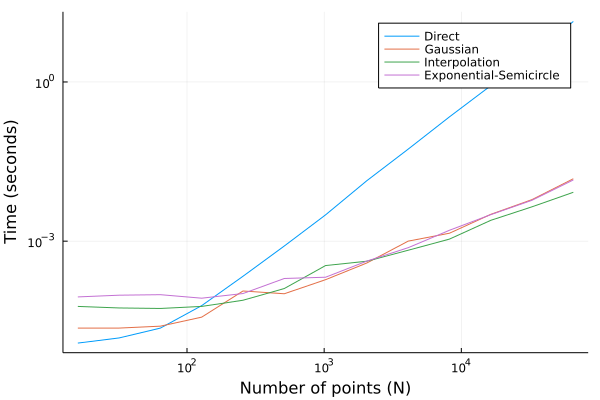
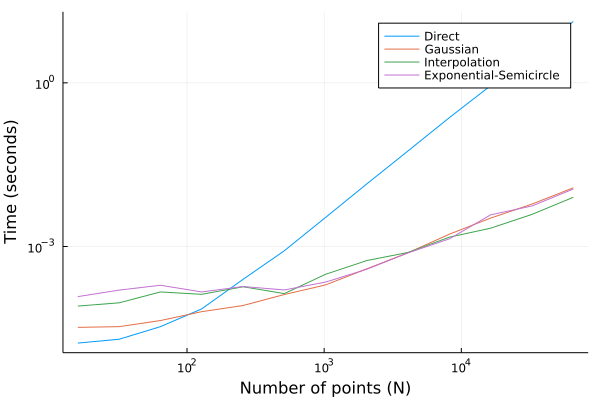
Intro, numerical examples, conclusion

diff --git a/latex/presentation/presentation.tex b/latex/presentation/presentation.tex
@@ -28,7 +28,10 @@
 
 \pdfsuppresswarningpagegroup=1
 
-\title{Test}
+\title{
+  A Variety of Approaches to \\
+  the Nonuniform Fast Fourier Transform
+}
 \author{Kosuke Sugita and Connor Robertson}
 \date{December 17, 2021}
 
@@ -41,7 +44,89 @@
 \section{Introduction}
 %%%%%%%%%%%%%%%%%%%%%%%%%%%%%%%%%%%%%%%%%%%%%%%%%%%%%%%%%%%%%%%%%%%%%%%%%%%%%%%
 \begin{frame}
-    \sectionpage
+    \frametitle{Introduction}
+    \textbf{Applications for NUFFT:}
+    \begin{itemize}
+        \item MRI Imaging - magnetic field reads frequency domain at nonuniform points
+        \item Numerical solutions to PDEs - consider radial points or Chebyshev points to better resolve domain
+        \item Coarse graining particles - Nonuniform distribution of discrete items to continuous field
+    \end{itemize}
+
+    \vfill
+
+    Nonuniform samples: $(x_n, f(x_n))$:
+    \begin{align*}
+        \hat{f}(k) = \sum_{n=0}^{N-1} f(x_n) e^{-i x_n k} \approx \int_{-\infty}^{\infty} f(x) e^{-i x k}dx
+    ,\end{align*}
+    *\textit{Order $O(N^{2})$}
 \end{frame}
 
+\begin{frame}
+  \frametitle{Concept}
+  \textbf{Key idea:}
+  \begin{enumerate}
+      \item Need uniform points for FFT symmetry
+      \item Use nonuniform points to cheaply sample uniform points
+  \end{enumerate}
+
+  \vfill
+
+  \begin{columns}
+      \begin{column}{.5\textwidth}
+        \textbf{Approaches:}
+        \begin{itemize}
+            \item Interpolation
+            \item Convolution of mollifier / window function
+            \item Low rank approximation to DFT matrix
+        \end{itemize}
+      \end{column}
+      \begin{column}{.5\textwidth}
+        \centering \includegraphics[width=\textwidth]{images/sample_gaussian.png}
+      \end{column}
+  \end{columns}
+\end{frame}
+
+\section{Numerical Examples}
+
+\begin{frame}
+  \frametitle{Sampling uniform points}
+  Different sampling methods illustrated:
+
+  \vfill
+
+  \centering \includegraphics[width=.8\textwidth]{images/conv_vs_interp.png}
+\end{frame}
+
+\begin{frame}
+  \frametitle{Comparison of methods output}
+  Spectrum of results:
+
+  \vfill
+
+  \centering \includegraphics[width=.8\textwidth]{images/spectrum.png}
+
+\end{frame}
+
+\begin{frame}
+  \frametitle{Speed}
+  All methods scale far better than direct evaluation:
+
+  \vfill
+
+  \centering \includegraphics[width=.8\textwidth]{images/n_vs_time.png}
+
+\end{frame}
+
+\section{Conclusion}
+\begin{frame}
+  \frametitle{Conclusion}
+
+  \begin{itemize}
+      \item Sampling uniform points from nonuniform points is delicate - speed vs accuracy
+      \item Selecting sampling method is an active research topic
+      \item Alternative versions are appearing - low rank approximation
+  \end{itemize}
+
+
+\end{frame}
 \end{document}
